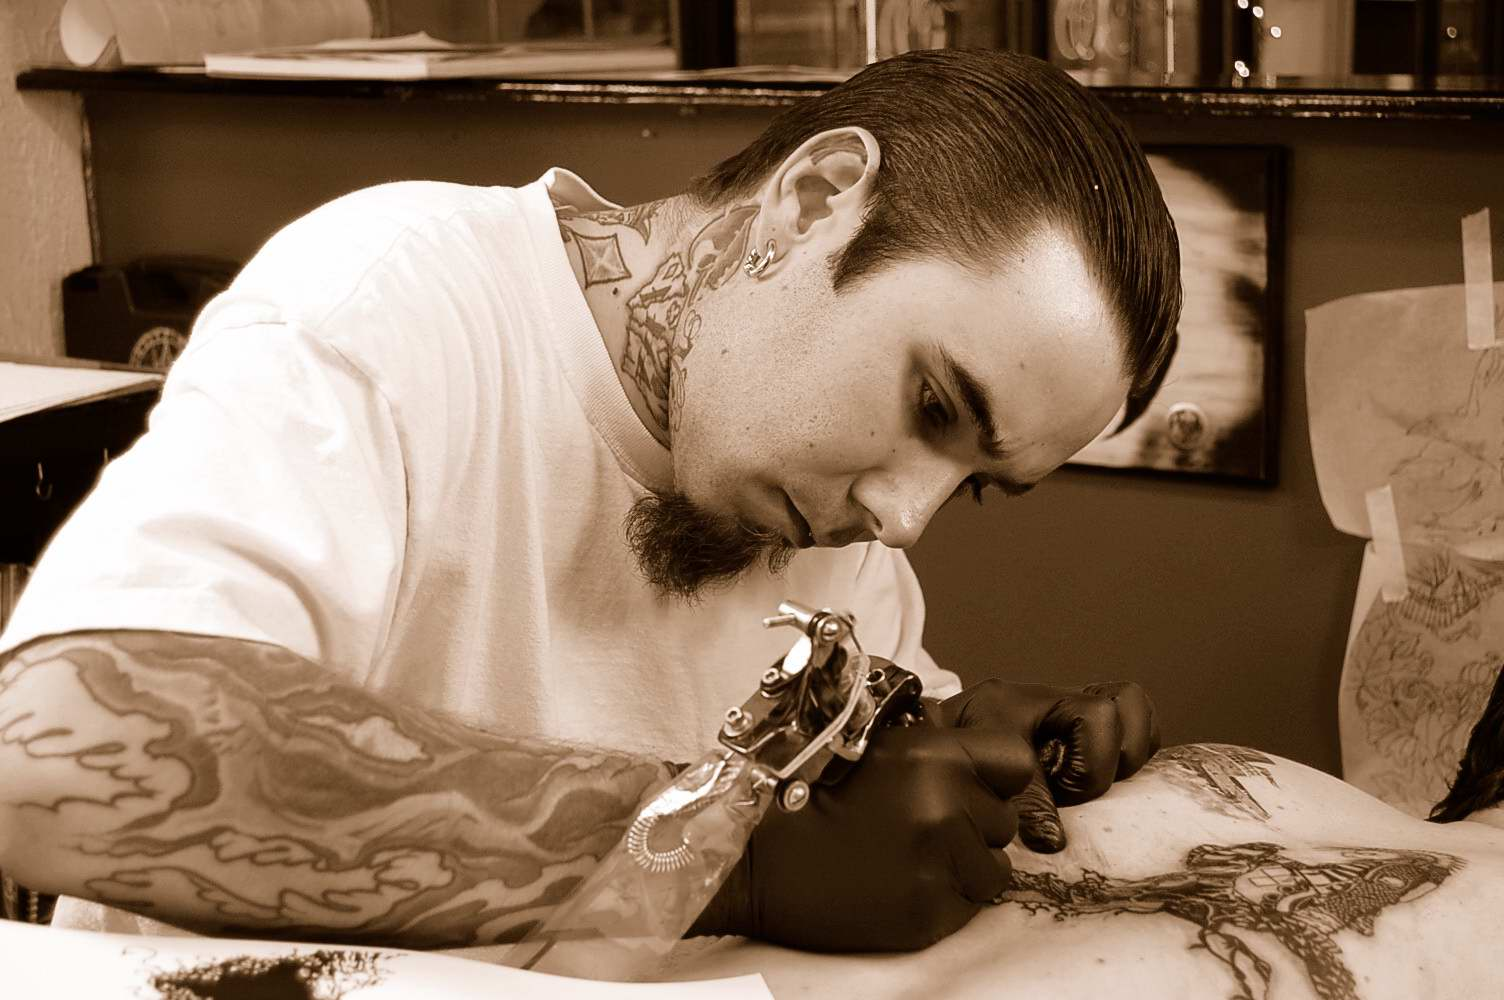
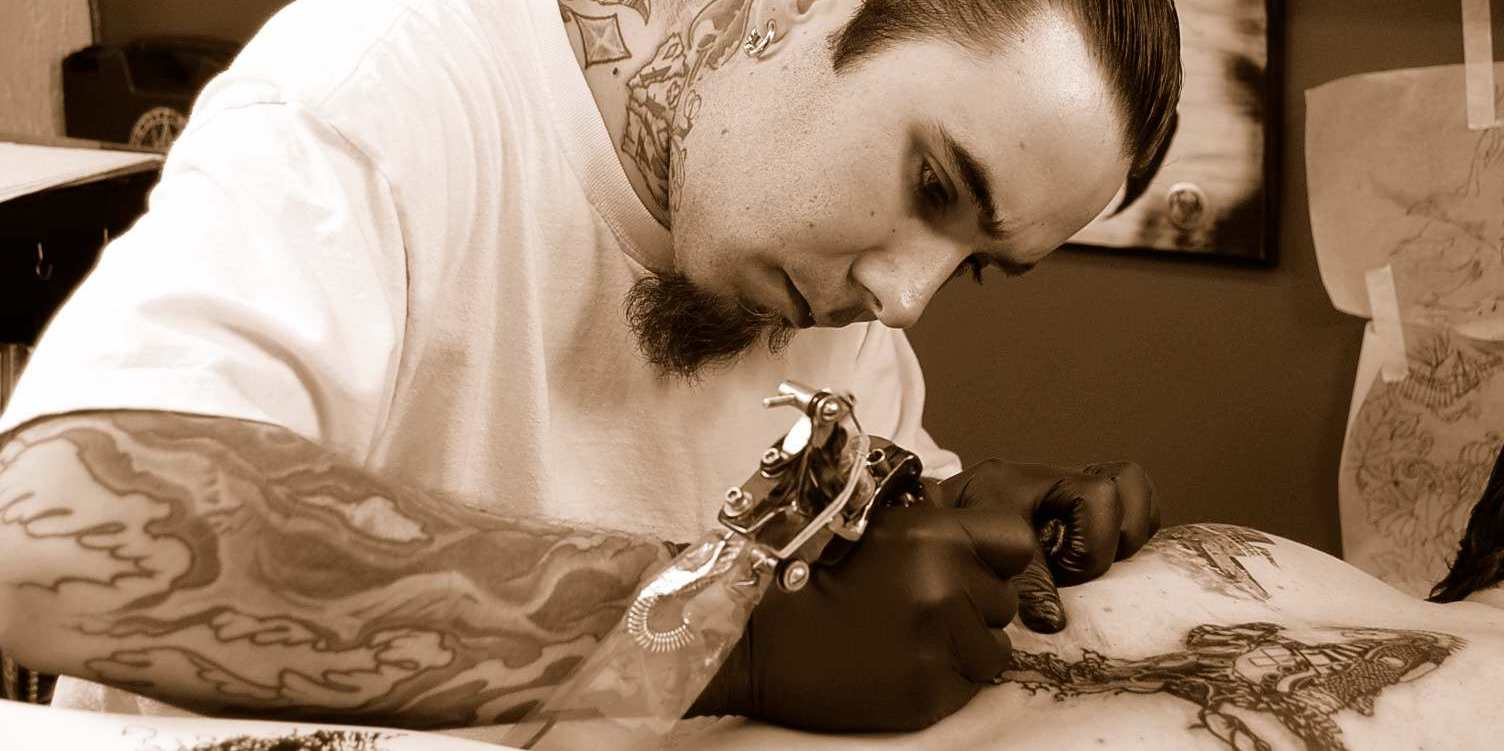
Added new user section with minor validation and more edited pictures

diff --git a/vendor/assets/javascripts/jquery.slides.js b/vendor/assets/javascripts/jquery.slides.js
@@ -139,13 +139,13 @@
       });
       if (this.options.play.active) {
         playButton = $("<a>", {
-          "class": "slidesjs-play slidesjs-navigation glyphicon glyphicon-pause",
+          "class": "slidesjs-play slidesjs-navigation glyphicon glyphicon-play",
           href: "#",
           title: "Play",
           text: ""
         }).appendTo($element);
         stopButton = $("<a>", {
-          "class": "slidesjs-stop slidesjs-navigation glyphicon glyphicon-play",
+          "class": "slidesjs-stop slidesjs-navigation glyphicon glyphicon-pause",
           href: "#",
           title: "Stop",
           text: ""

diff --git a/app/assets/stylesheets/artists.css.scss b/app/assets/stylesheets/artists.css.scss
@@ -14,18 +14,22 @@
 }
 
 .artist-cover-photo img{
-  width: 600px;
+  height: 300px;
   border: solid 5px #333;
   border-radius: 3px;
+  margin-bottom: 30px;
+  &:hover {
+    border: solid 5px #680000;
+  }
 
 }
 
 h2 a{
   font-family:trajan;
-  font-size: 42;
-  color:#222;
+  font-size: 48;
+  color:#eee;
   &:hover {
-    text-decoration: none;
-    color: #888;
+    color: #680000;
   }
 }
+

diff --git a/app/assets/stylesheets/admin.css.scss b/app/assets/stylesheets/admin.css.scss
@@ -9,3 +9,10 @@
   z-index:10000;
   display:none;
 }
+
+.social-fields {
+  border: solid 1px #eee;
+  border-radius:5px;
+  padding: 5px 10px 5px 10px;
+  margin: 10px 0 5px;
+}

diff --git a/app/assets/stylesheets/shop.css.scss b/app/assets/stylesheets/shop.css.scss
@@ -28,7 +28,7 @@
     border:solid 3px #333;
     border-radius:3px;
   }
-  & .name {
+  & .words .name {
     font-family: trajan;
     font-size: 16px;
   }

diff --git a/app/controllers/admin_controller.rb b/app/controllers/admin_controller.rb
@@ -39,6 +39,26 @@ class AdminController < ApplicationController
     end
   end
   
+  def create_user
+    user = User.new
+    user.first_name = params[:first_name]
+    user.last_name = params[:last_name]
+    user.email = params[:email]
+    user.password = 'password'
+    user.phone = params[:phone] == "" ? nil : params[:phone]
+    user.instagram = params[:instagram] == "" ? nil : params[:instagram]
+    user.twitter = params[:twitter] == "" ? nil : params[:twitter]
+    user.facebook = params[:facebook] == "" ? nil : params[:facebook]
+    user.tumblr = params[:tumblr] == "" ? nil : params[:tumblr]
+    user.isAdmin = params[:isAdmin] || false
+    user.isArtist = params[:isArtist] || false
+    if user.save
+      redirect_to action: 'confirm'
+    else
+      redirect_to :back
+    end
+  end
+
   def respond_with_partial(images, target)
     html = render_to_string(:partial => 'images', :locals => {images: images, target: target})
     respond_to do |format|

diff --git a/db/fixtures/production/01_shop.rb b/db/fixtures/production/01_shop.rb
@@ -1,0 +1,10 @@
+Shop.seed do |shop|
+    shop.id = 1
+    name = 'truefittattoosd'
+    shop.phone = '(619) 450 6031'
+    shop.email = "#{name}@gmail.com"
+    shop.instagram = shop.facebook = shop.twitter = name
+    shop.yelp = "true-fit-tattoo-san-diego-4"
+    shop.address = '6561 El Cajon Blvd., San Diego, CA, 92115'
+    shop.hours = 'Monday-Saturday: 12-8pm, Sunday: Appointment Only'
+end

diff --git a/db/fixtures/production/02_artists.rb b/db/fixtures/production/02_artists.rb
@@ -1,0 +1,10 @@
+User.seed do |tomas|
+    tomas.id = 1
+    tomas.first_name = 'Tomas'
+    tomas.last_name = 'Archuleta'
+    tomas.email = 'truefittattoosd@gmail.com'
+    tomas.password = 'password'
+    tomas.instagram = 'tomasj13'
+    tomas.isArtist = true
+    tomas.isAdmin = true   
+end

diff --git a/app/controllers/artists_controller.rb b/app/controllers/artists_controller.rb
@@ -4,6 +4,6 @@ class ArtistsController < ApplicationController
   end
   def show
     @artist = User.find(params[:id])
-    @shop = Shop.last
+    @shop = Shop.first
   end
 end
